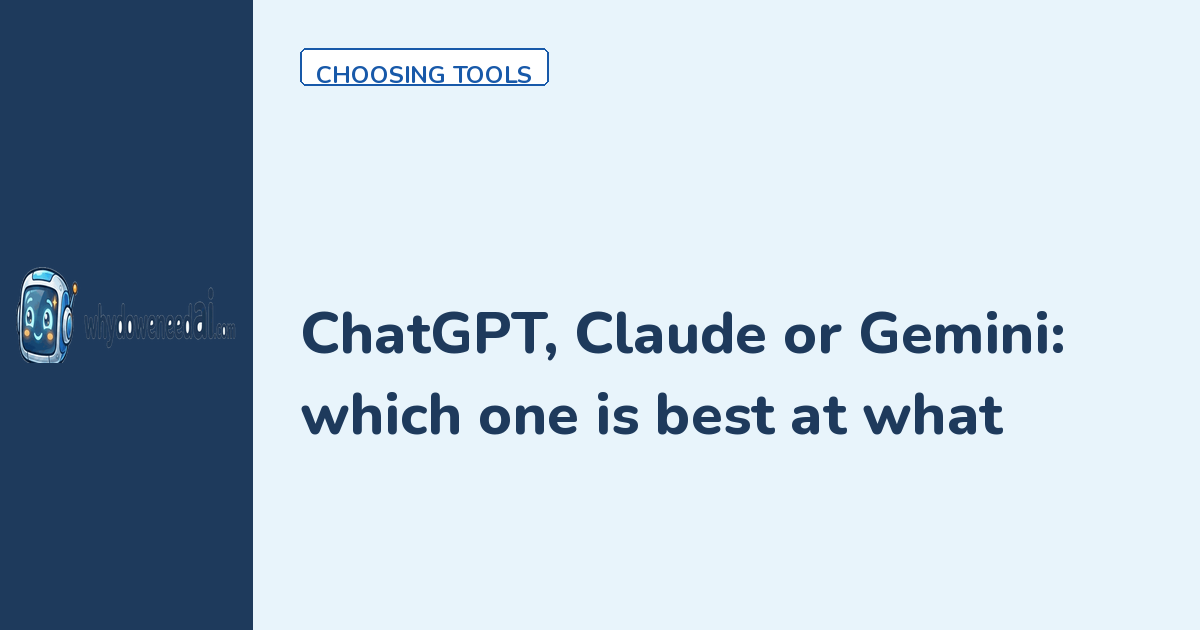
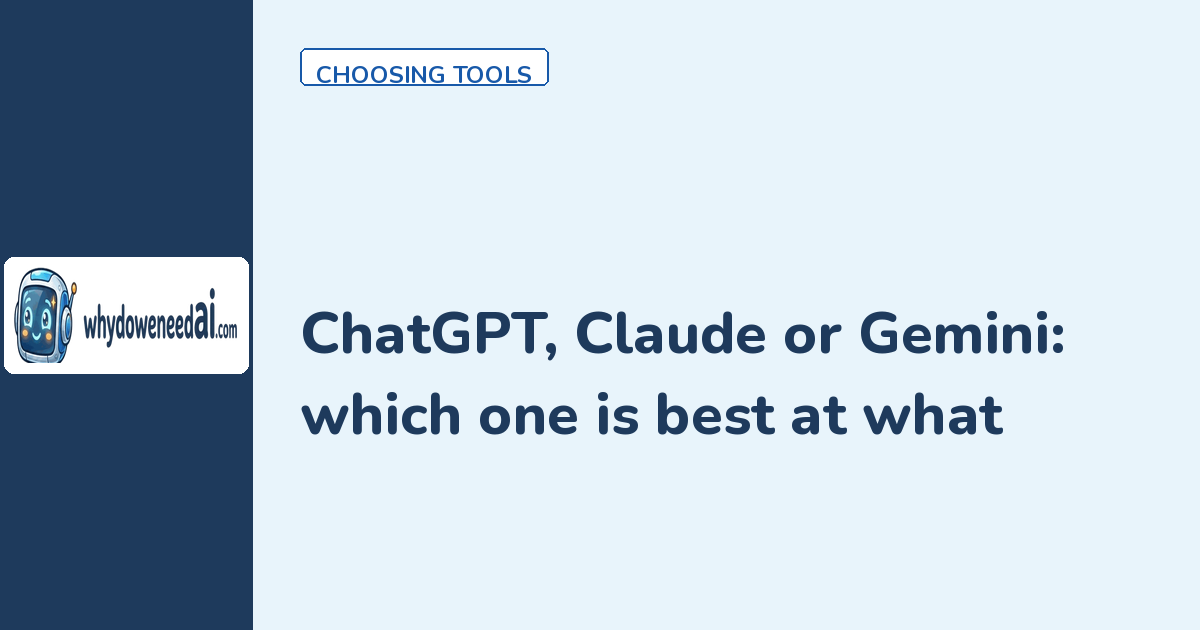
Fix idempotent regen, OG lockup panel, home dedup, scroll margins
- inject_font() for static pages; no growing preconnect indentation
- OG lockup on white panel in navy band; regenerate all PNGs
- Dedupe home lead/rail/latest; fill Editor picks without repeats above fold
- scroll-margin-top calc(3.25rem + 16px) on headings and #editorial-correction
- ReadyScore module: 2-minute CTA wording
- check-prose-unchanged.py uses origin/main after fetch (18 pages)

Changed region(s): [[0.0, 0.3921, 0.2158, 0.6032]]

diff --git a/index.html b/index.html
@@ -118,21 +118,6 @@
       </div>
       <div class="card-grid">
         <article class="card card--text">
-          <a class="card-link" href="/blog/can-ai-enter-invoices-spreadsheet-test/">
-            <div class="card-body"><span class="topic-label">Tested</span><h3 class="card-title">Can AI type your invoices into a spreadsheet?</h3><p class="card-dek">We ran 24 invented invoices, including scans and handwriting, through an AI model and a rules script. AI read messy ones better but missed a bad total.</p></div>
-          </a>
-        </article>
-<article class="card card--text">
-          <a class="card-link" href="/blog/ai-vs-rules-appointment-payment-reminders/">
-            <div class="card-body"><span class="topic-label">Tested</span><h3 class="card-title">AI vs. simple rules for appointment and payment reminders</h3><p class="card-dek">We ran 30 made-up reminder records through a rules script and an AI model three times each. Rules got every routine case right.</p></div>
-          </a>
-        </article>
-<article class="card card--text">
-          <a class="card-link" href="/blog/ai-lead-follow-up-test/">
-            <div class="card-body"><span class="topic-label">Tested</span><h3 class="card-title">We ran 30 invented customer inquiries through an AI follow-up assistant</h3><p class="card-dek">A 30-case synthetic test: stop checks passed, but one draft made unapproved promises.</p></div>
-          </a>
-        </article>
-<article class="card card--text">
           <a class="card-link" href="/blog/lead-follow-up-automation/">
             <div class="card-body"><span class="topic-label">Automation & workflows</span><h3 class="card-title">Small-business lead follow-up automation: a blueprint</h3><p class="card-dek">A lifecycle map for capture, handoff, follow-up, and closure, with exceptions and stop conditions to write first.</p></div>
           </a>
@@ -147,28 +132,28 @@
       </div>
       <div class="card-grid card-grid--picks">
         <article class="card card--text">
-          <a class="card-link" href="/blog/can-ai-enter-invoices-spreadsheet-test/">
-            <div class="card-body"><h3 class="card-title">Can AI type your invoices into a spreadsheet?</h3><p class="card-dek">We ran 24 invented invoices, including scans and handwriting, through an AI model and a rules script. AI read messy ones better but missed a bad total.</p></div>
-          </a>
-        </article>
-<article class="card card--text">
-          <a class="card-link" href="/blog/ai-lead-follow-up-test/">
-            <div class="card-body"><h3 class="card-title">We ran 30 invented customer inquiries through an AI follow-up assistant</h3><p class="card-dek">A 30-case synthetic test: stop checks passed, but one draft made unapproved promises.</p></div>
-          </a>
-        </article>
-<article class="card card--text">
           <a class="card-link" href="/blog/ai-readiness-checklist-test/">
             <div class="card-body"><h3 class="card-title">We tested our AI readiness checklist on 12 made-up workflows</h3><p class="card-dek">We ran our readiness checklist on 12 invented workflows. It's a good brake and a poor compass.</p></div>
           </a>
         </article>
 <article class="card card--text">
-          <a class="card-link" href="/blog/ai-vs-rules-appointment-payment-reminders/">
-            <div class="card-body"><h3 class="card-title">AI vs. simple rules for appointment and payment reminders</h3><p class="card-dek">We ran 30 made-up reminder records through a rules script and an AI model three times each. Rules got every routine case right.</p></div>
+          <a class="card-link" href="/blog/ai-agents-business-app-permissions/">
+            <div class="card-body"><h3 class="card-title">AI agents are moving into your business apps</h3><p class="card-dek">Use an Agent Action Contract and a contractor test plan to decide what an assistant may read, draft, propose, and change.</p></div>
           </a>
         </article>
 <article class="card card--text">
-          <a class="card-link" href="/blog/chatgpt-vs-claude-vs-gemini-vs-copilot/">
-            <div class="card-body"><h3 class="card-title">ChatGPT, Claude or Gemini: which one is best at what</h3><p class="card-dek">Claude reads your contracts, ChatGPT crunches your numbers and makes images, Gemini and Copilot run your inbox. Which AI to pay for, job by job.</p></div>
+          <a class="card-link" href="/blog/evaluate-ai-pilot/">
+            <div class="card-body"><h3 class="card-title">How to evaluate an AI pilot: keep, fix, or stop</h3><p class="card-dek">Use a pilot evidence sheet, quality buckets, net-time math, and a worked example to decide whether an AI workflow deserves to continue.</p></div>
+          </a>
+        </article>
+<article class="card card--text">
+          <a class="card-link" href="/blog/data-ai-tools/">
+            <div class="card-body"><h3 class="card-title">What data should you put into an AI tool?</h3><p class="card-dek">Use a green-yellow-red data framework and a pre-upload checklist before business information enters an AI workflow.</p></div>
+          </a>
+        </article>
+<article class="card card--text">
+          <a class="card-link" href="/blog/ai-automation-roi/">
+            <div class="card-body"><h3 class="card-title">How to calculate the ROI of AI automation</h3><p class="card-dek">Use a conservative five-number model to calculate net monthly value, break-even volume, and payback period.</p></div>
           </a>
         </article>
       </div>
@@ -190,9 +175,9 @@
       <aside class="module-readyscore" aria-labelledby="readyscore-title">
   <img class="brand-mascot brand-mascot--md" src="/images/brand/logo-mascot.png" width="531" height="522" alt="" aria-hidden="true" loading="lazy" decoding="async">
   <div class="module-readyscore-copy">
-    <h2 id="readyscore-title" class="module-title">Take the 3-minute AI ReadyScore</h2>
+    <h2 id="readyscore-title" class="module-title">AI ReadyScore</h2>
     <p>A short self-assessment to see where AI fits your business today—before another subscription or pilot.</p>
-    <a class="button button--secondary" href="/ai-readyscore/">Start AI ReadyScore</a>
+    <a class="button button--secondary" href="/ai-readyscore/">Find out where AI fits your business — free 2-minute AI ReadyScore self-assessment.</a>
   </div>
 </aside>
     </section>

diff --git a/blog/ai-vs-rules-appointment-payment-reminders/index.html b/blog/ai-vs-rules-appointment-payment-reminders/index.html
@@ -146,9 +146,9 @@
 <aside class="module-readyscore module-readyscore--compact" aria-labelledby="rs-ai-vs-rules-appointment-payment-reminders">
   <img class="brand-mascot brand-mascot--md" src="/images/brand/logo-mascot.png" width="531" height="522" alt="" aria-hidden="true" loading="lazy" decoding="async">
   <div class="module-readyscore-copy">
-    <h2 id="rs-ai-vs-rules-appointment-payment-reminders" class="module-title">Take the 3-minute AI ReadyScore</h2>
+    <h2 id="rs-ai-vs-rules-appointment-payment-reminders" class="module-title">AI ReadyScore</h2>
     <p>A short self-assessment to see where AI fits your business today—before another subscription or pilot.</p>
-    <a class="button button--secondary" href="/ai-readyscore/">Start AI ReadyScore</a>
+    <a class="button button--secondary" href="/ai-readyscore/">Find out where AI fits your business — free 2-minute AI ReadyScore self-assessment.</a>
   </div>
 </aside>
   <aside class="newsletter-compact" aria-labelledby="nl-ai-vs-rules-appointment-payment-reminders">

diff --git a/blog/can-ai-enter-invoices-spreadsheet-test/index.html b/blog/can-ai-enter-invoices-spreadsheet-test/index.html
@@ -182,9 +182,9 @@
 <aside class="module-readyscore module-readyscore--compact" aria-labelledby="rs-can-ai-enter-invoices-spreadsheet-test">
   <img class="brand-mascot brand-mascot--md" src="/images/brand/logo-mascot.png" width="531" height="522" alt="" aria-hidden="true" loading="lazy" decoding="async">
   <div class="module-readyscore-copy">
-    <h2 id="rs-can-ai-enter-invoices-spreadsheet-test" class="module-title">Take the 3-minute AI ReadyScore</h2>
+    <h2 id="rs-can-ai-enter-invoices-spreadsheet-test" class="module-title">AI ReadyScore</h2>
     <p>A short self-assessment to see where AI fits your business today—before another subscription or pilot.</p>
-    <a class="button button--secondary" href="/ai-readyscore/">Start AI ReadyScore</a>
+    <a class="button button--secondary" href="/ai-readyscore/">Find out where AI fits your business — free 2-minute AI ReadyScore self-assessment.</a>
   </div>
 </aside>
   <aside class="newsletter-compact" aria-labelledby="nl-can-ai-enter-invoices-spreadsheet-test">

diff --git a/blog/chatgpt-vs-claude-vs-gemini-vs-copilot/index.html b/blog/chatgpt-vs-claude-vs-gemini-vs-copilot/index.html
@@ -153,9 +153,9 @@
 <aside class="module-readyscore module-readyscore--compact" aria-labelledby="rs-chatgpt-vs-claude-vs-gemini-vs-copilot">
   <img class="brand-mascot brand-mascot--md" src="/images/brand/logo-mascot.png" width="531" height="522" alt="" aria-hidden="true" loading="lazy" decoding="async">
   <div class="module-readyscore-copy">
-    <h2 id="rs-chatgpt-vs-claude-vs-gemini-vs-copilot" class="module-title">Take the 3-minute AI ReadyScore</h2>
+    <h2 id="rs-chatgpt-vs-claude-vs-gemini-vs-copilot" class="module-title">AI ReadyScore</h2>
     <p>A short self-assessment to see where AI fits your business today—before another subscription or pilot.</p>
-    <a class="button button--secondary" href="/ai-readyscore/">Start AI ReadyScore</a>
+    <a class="button button--secondary" href="/ai-readyscore/">Find out where AI fits your business — free 2-minute AI ReadyScore self-assessment.</a>
   </div>
 </aside>
   <aside class="newsletter-compact" aria-labelledby="nl-chatgpt-vs-claude-vs-gemini-vs-copilot">

diff --git a/blog/ai-lead-follow-up-test/index.html b/blog/ai-lead-follow-up-test/index.html
@@ -283,9 +283,9 @@ Respond with only a JSON object, no other text, in this shape:
 <aside class="module-readyscore module-readyscore--compact" aria-labelledby="rs-ai-lead-follow-up-test">
   <img class="brand-mascot brand-mascot--md" src="/images/brand/logo-mascot.png" width="531" height="522" alt="" aria-hidden="true" loading="lazy" decoding="async">
   <div class="module-readyscore-copy">
-    <h2 id="rs-ai-lead-follow-up-test" class="module-title">Take the 3-minute AI ReadyScore</h2>
+    <h2 id="rs-ai-lead-follow-up-test" class="module-title">AI ReadyScore</h2>
     <p>A short self-assessment to see where AI fits your business today—before another subscription or pilot.</p>
-    <a class="button button--secondary" href="/ai-readyscore/">Start AI ReadyScore</a>
+    <a class="button button--secondary" href="/ai-readyscore/">Find out where AI fits your business — free 2-minute AI ReadyScore self-assessment.</a>
   </div>
 </aside>
   <aside class="newsletter-compact" aria-labelledby="nl-ai-lead-follow-up-test">

diff --git a/blog/ai-agents-business-app-permissions/index.html b/blog/ai-agents-business-app-permissions/index.html
@@ -179,9 +179,9 @@
 <aside class="module-readyscore module-readyscore--compact" aria-labelledby="rs-ai-agents-business-app-permissions">
   <img class="brand-mascot brand-mascot--md" src="/images/brand/logo-mascot.png" width="531" height="522" alt="" aria-hidden="true" loading="lazy" decoding="async">
   <div class="module-readyscore-copy">
-    <h2 id="rs-ai-agents-business-app-permissions" class="module-title">Take the 3-minute AI ReadyScore</h2>
+    <h2 id="rs-ai-agents-business-app-permissions" class="module-title">AI ReadyScore</h2>
     <p>A short self-assessment to see where AI fits your business today—before another subscription or pilot.</p>
-    <a class="button button--secondary" href="/ai-readyscore/">Start AI ReadyScore</a>
+    <a class="button button--secondary" href="/ai-readyscore/">Find out where AI fits your business — free 2-minute AI ReadyScore self-assessment.</a>
   </div>
 </aside>
   <aside class="newsletter-compact" aria-labelledby="nl-ai-agents-business-app-permissions">

diff --git a/blog/ai-readiness-checklist-test/index.html b/blog/ai-readiness-checklist-test/index.html
@@ -253,9 +253,9 @@
 <aside class="module-readyscore module-readyscore--compact" aria-labelledby="rs-ai-readiness-checklist-test">
   <img class="brand-mascot brand-mascot--md" src="/images/brand/logo-mascot.png" width="531" height="522" alt="" aria-hidden="true" loading="lazy" decoding="async">
   <div class="module-readyscore-copy">
-    <h2 id="rs-ai-readiness-checklist-test" class="module-title">Take the 3-minute AI ReadyScore</h2>
+    <h2 id="rs-ai-readiness-checklist-test" class="module-title">AI ReadyScore</h2>
     <p>A short self-assessment to see where AI fits your business today—before another subscription or pilot.</p>
-    <a class="button button--secondary" href="/ai-readyscore/">Start AI ReadyScore</a>
+    <a class="button button--secondary" href="/ai-readyscore/">Find out where AI fits your business — free 2-minute AI ReadyScore self-assessment.</a>
   </div>
 </aside>
   <aside class="newsletter-compact" aria-labelledby="nl-ai-readiness-checklist-test">

diff --git a/blog/lead-follow-up-automation/index.html b/blog/lead-follow-up-automation/index.html
@@ -259,9 +259,9 @@
 <aside class="module-readyscore module-readyscore--compact" aria-labelledby="rs-lead-follow-up-automation">
   <img class="brand-mascot brand-mascot--md" src="/images/brand/logo-mascot.png" width="531" height="522" alt="" aria-hidden="true" loading="lazy" decoding="async">
   <div class="module-readyscore-copy">
-    <h2 id="rs-lead-follow-up-automation" class="module-title">Take the 3-minute AI ReadyScore</h2>
+    <h2 id="rs-lead-follow-up-automation" class="module-title">AI ReadyScore</h2>
     <p>A short self-assessment to see where AI fits your business today—before another subscription or pilot.</p>
-    <a class="button button--secondary" href="/ai-readyscore/">Start AI ReadyScore</a>
+    <a class="button button--secondary" href="/ai-readyscore/">Find out where AI fits your business — free 2-minute AI ReadyScore self-assessment.</a>
   </div>
 </aside>
   <aside class="newsletter-compact" aria-labelledby="nl-lead-follow-up-automation">

diff --git a/blog/ai-readiness-checklist/index.html b/blog/ai-readiness-checklist/index.html
@@ -370,9 +370,9 @@
 <aside class="module-readyscore module-readyscore--compact" aria-labelledby="rs-ai-readiness-checklist">
   <img class="brand-mascot brand-mascot--md" src="/images/brand/logo-mascot.png" width="531" height="522" alt="" aria-hidden="true" loading="lazy" decoding="async">
   <div class="module-readyscore-copy">
-    <h2 id="rs-ai-readiness-checklist" class="module-title">Take the 3-minute AI ReadyScore</h2>
+    <h2 id="rs-ai-readiness-checklist" class="module-title">AI ReadyScore</h2>
     <p>A short self-assessment to see where AI fits your business today—before another subscription or pilot.</p>
-    <a class="button button--secondary" href="/ai-readyscore/">Start AI ReadyScore</a>
+    <a class="button button--secondary" href="/ai-readyscore/">Find out where AI fits your business — free 2-minute AI ReadyScore self-assessment.</a>
   </div>
 </aside>
   <aside class="newsletter-compact" aria-labelledby="nl-ai-readiness-checklist">

diff --git a/blog/what-to-automate-first/index.html b/blog/what-to-automate-first/index.html
@@ -346,9 +346,9 @@
 <aside class="module-readyscore module-readyscore--compact" aria-labelledby="rs-what-to-automate-first">
   <img class="brand-mascot brand-mascot--md" src="/images/brand/logo-mascot.png" width="531" height="522" alt="" aria-hidden="true" loading="lazy" decoding="async">
   <div class="module-readyscore-copy">
-    <h2 id="rs-what-to-automate-first" class="module-title">Take the 3-minute AI ReadyScore</h2>
+    <h2 id="rs-what-to-automate-first" class="module-title">AI ReadyScore</h2>
     <p>A short self-assessment to see where AI fits your business today—before another subscription or pilot.</p>
-    <a class="button button--secondary" href="/ai-readyscore/">Start AI ReadyScore</a>
+    <a class="button button--secondary" href="/ai-readyscore/">Find out where AI fits your business — free 2-minute AI ReadyScore self-assessment.</a>
   </div>
 </aside>
   <aside class="newsletter-compact" aria-labelledby="nl-what-to-automate-first">

diff --git a/blog/choose-first-ai-tool/index.html b/blog/choose-first-ai-tool/index.html
@@ -424,9 +424,9 @@
 <aside class="module-readyscore module-readyscore--compact" aria-labelledby="rs-choose-first-ai-tool">
   <img class="brand-mascot brand-mascot--md" src="/images/brand/logo-mascot.png" width="531" height="522" alt="" aria-hidden="true" loading="lazy" decoding="async">
   <div class="module-readyscore-copy">
-    <h2 id="rs-choose-first-ai-tool" class="module-title">Take the 3-minute AI ReadyScore</h2>
+    <h2 id="rs-choose-first-ai-tool" class="module-title">AI ReadyScore</h2>
     <p>A short self-assessment to see where AI fits your business today—before another subscription or pilot.</p>
-    <a class="button button--secondary" href="/ai-readyscore/">Start AI ReadyScore</a>
+    <a class="button button--secondary" href="/ai-readyscore/">Find out where AI fits your business — free 2-minute AI ReadyScore self-assessment.</a>
   </div>
 </aside>
   <aside class="newsletter-compact" aria-labelledby="nl-choose-first-ai-tool">

diff --git a/blog/ai-automation-roi/index.html b/blog/ai-automation-roi/index.html
@@ -388,9 +388,9 @@
 <aside class="module-readyscore module-readyscore--compact" aria-labelledby="rs-ai-automation-roi">
   <img class="brand-mascot brand-mascot--md" src="/images/brand/logo-mascot.png" width="531" height="522" alt="" aria-hidden="true" loading="lazy" decoding="async">
   <div class="module-readyscore-copy">
-    <h2 id="rs-ai-automation-roi" class="module-title">Take the 3-minute AI ReadyScore</h2>
+    <h2 id="rs-ai-automation-roi" class="module-title">AI ReadyScore</h2>
     <p>A short self-assessment to see where AI fits your business today—before another subscription or pilot.</p>
-    <a class="button button--secondary" href="/ai-readyscore/">Start AI ReadyScore</a>
+    <a class="button button--secondary" href="/ai-readyscore/">Find out where AI fits your business — free 2-minute AI ReadyScore self-assessment.</a>
   </div>
 </aside>
   <aside class="newsletter-compact" aria-labelledby="nl-ai-automation-roi">
